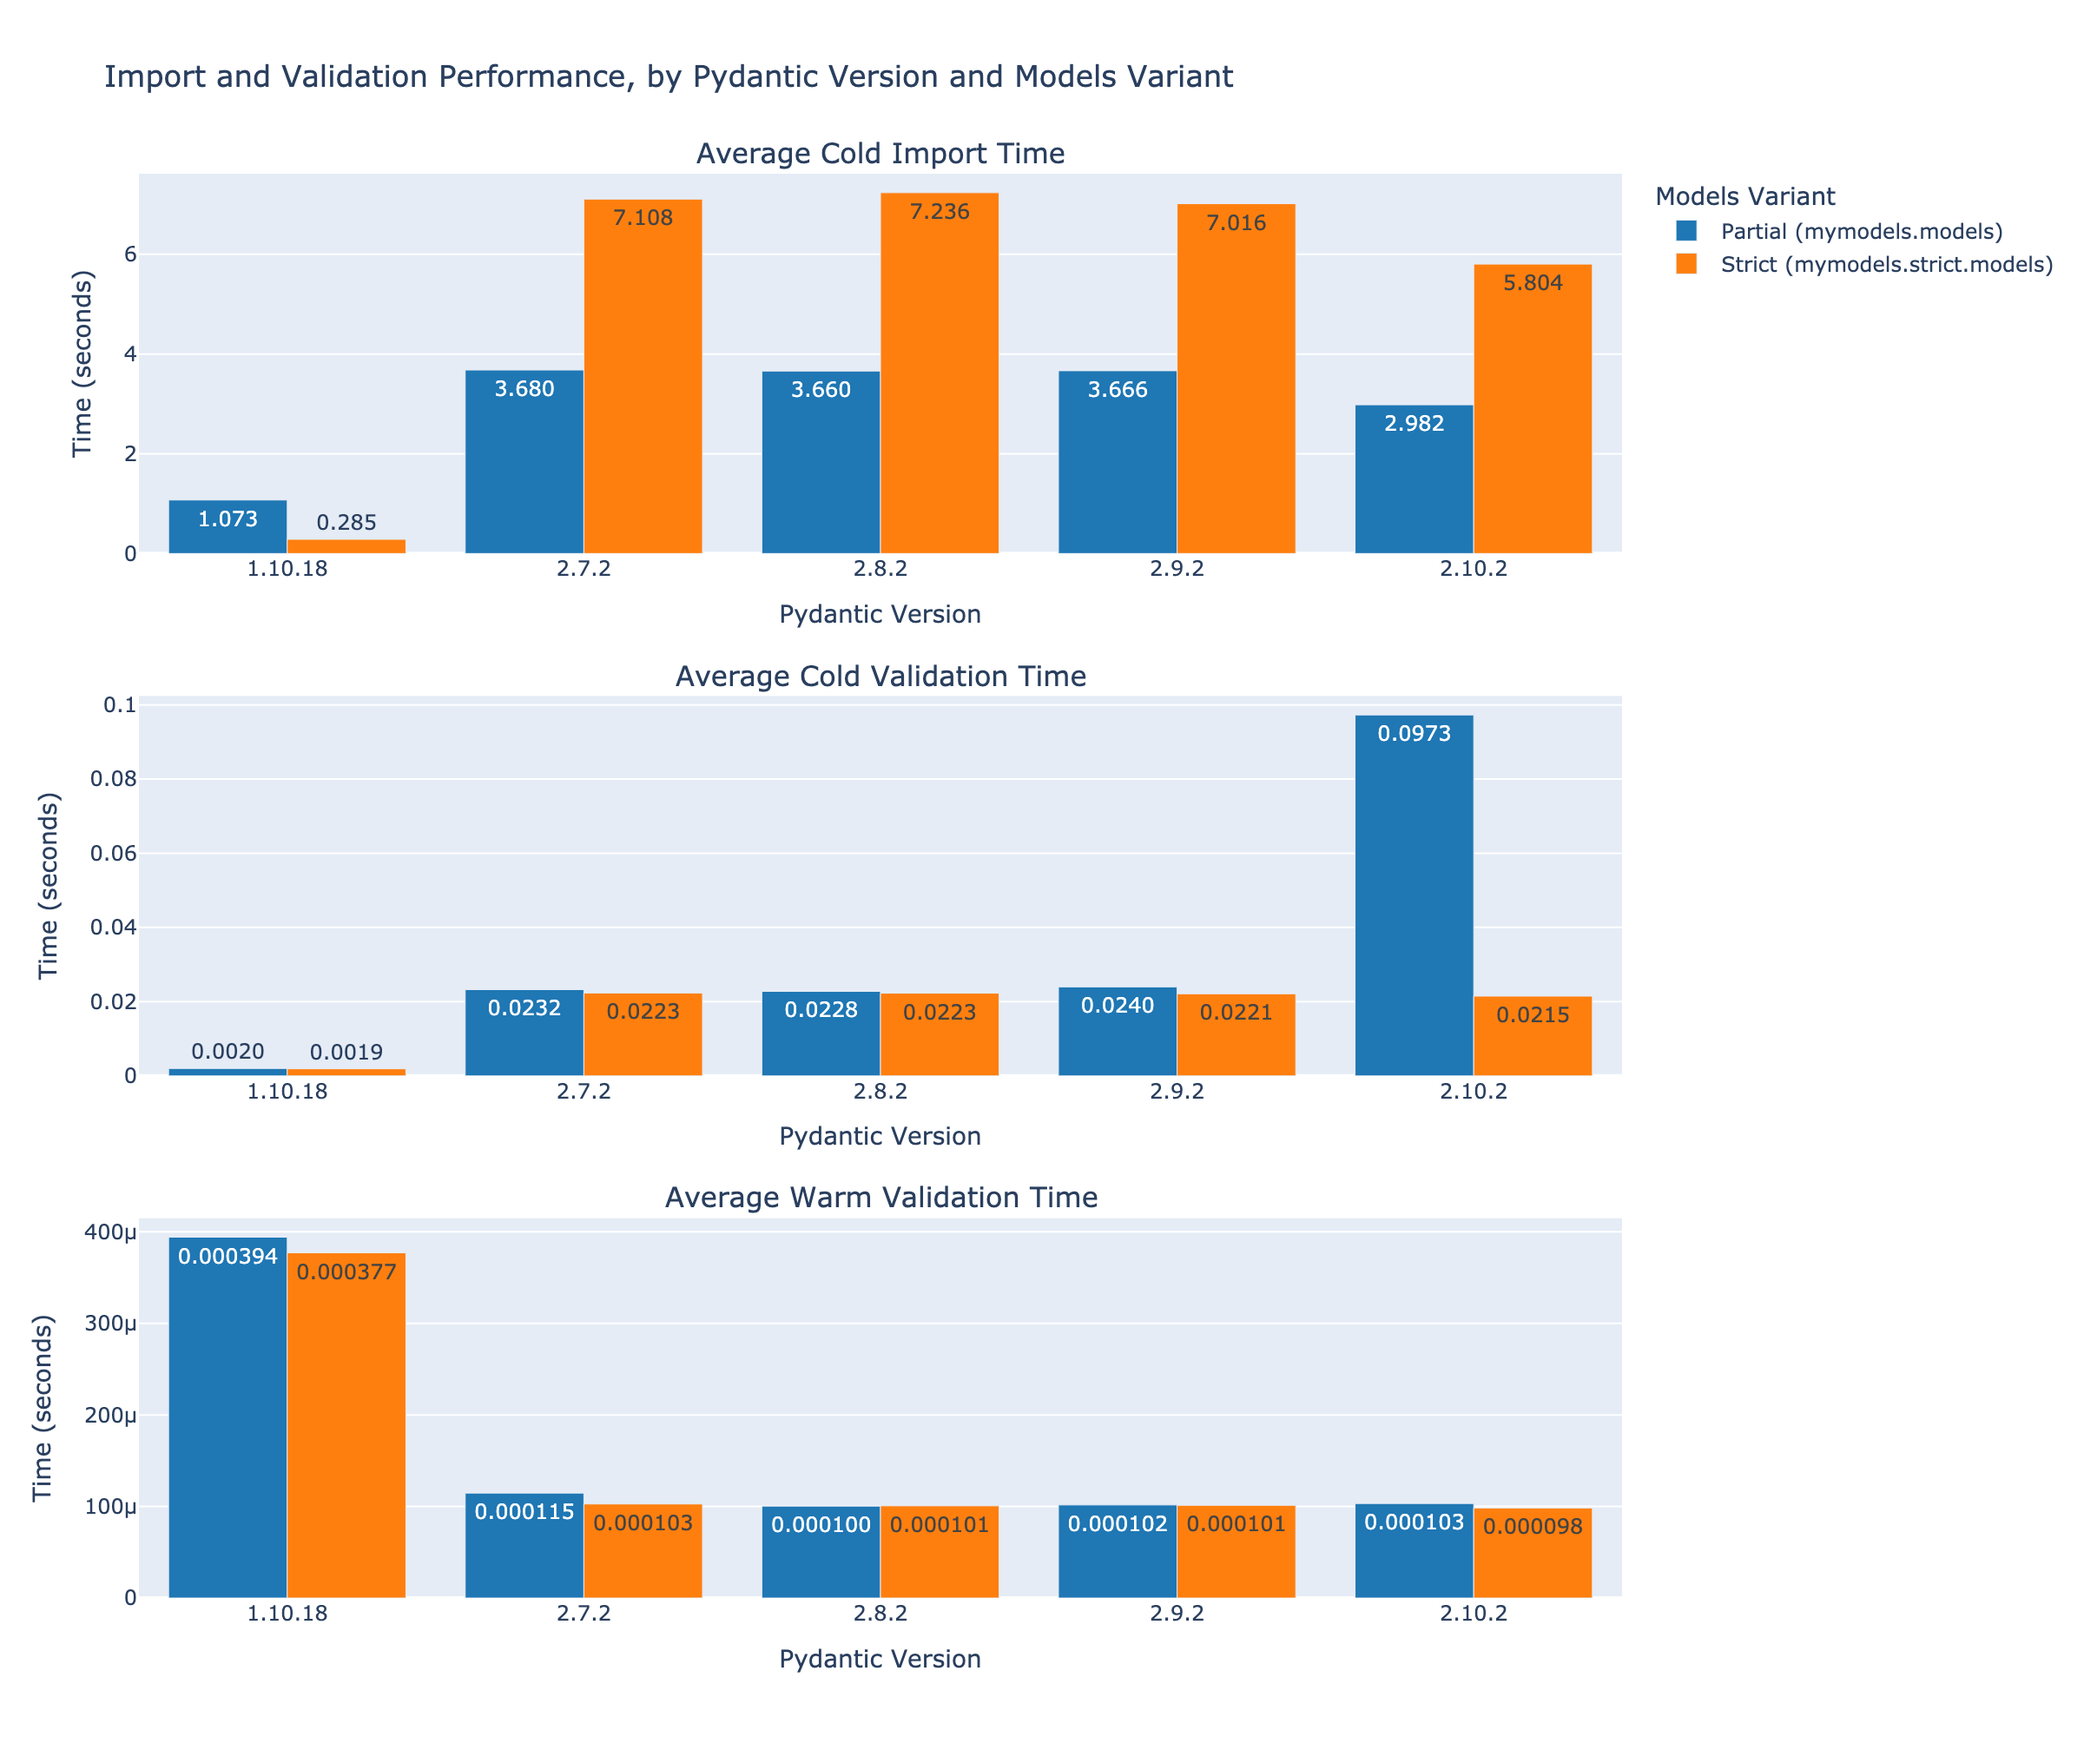
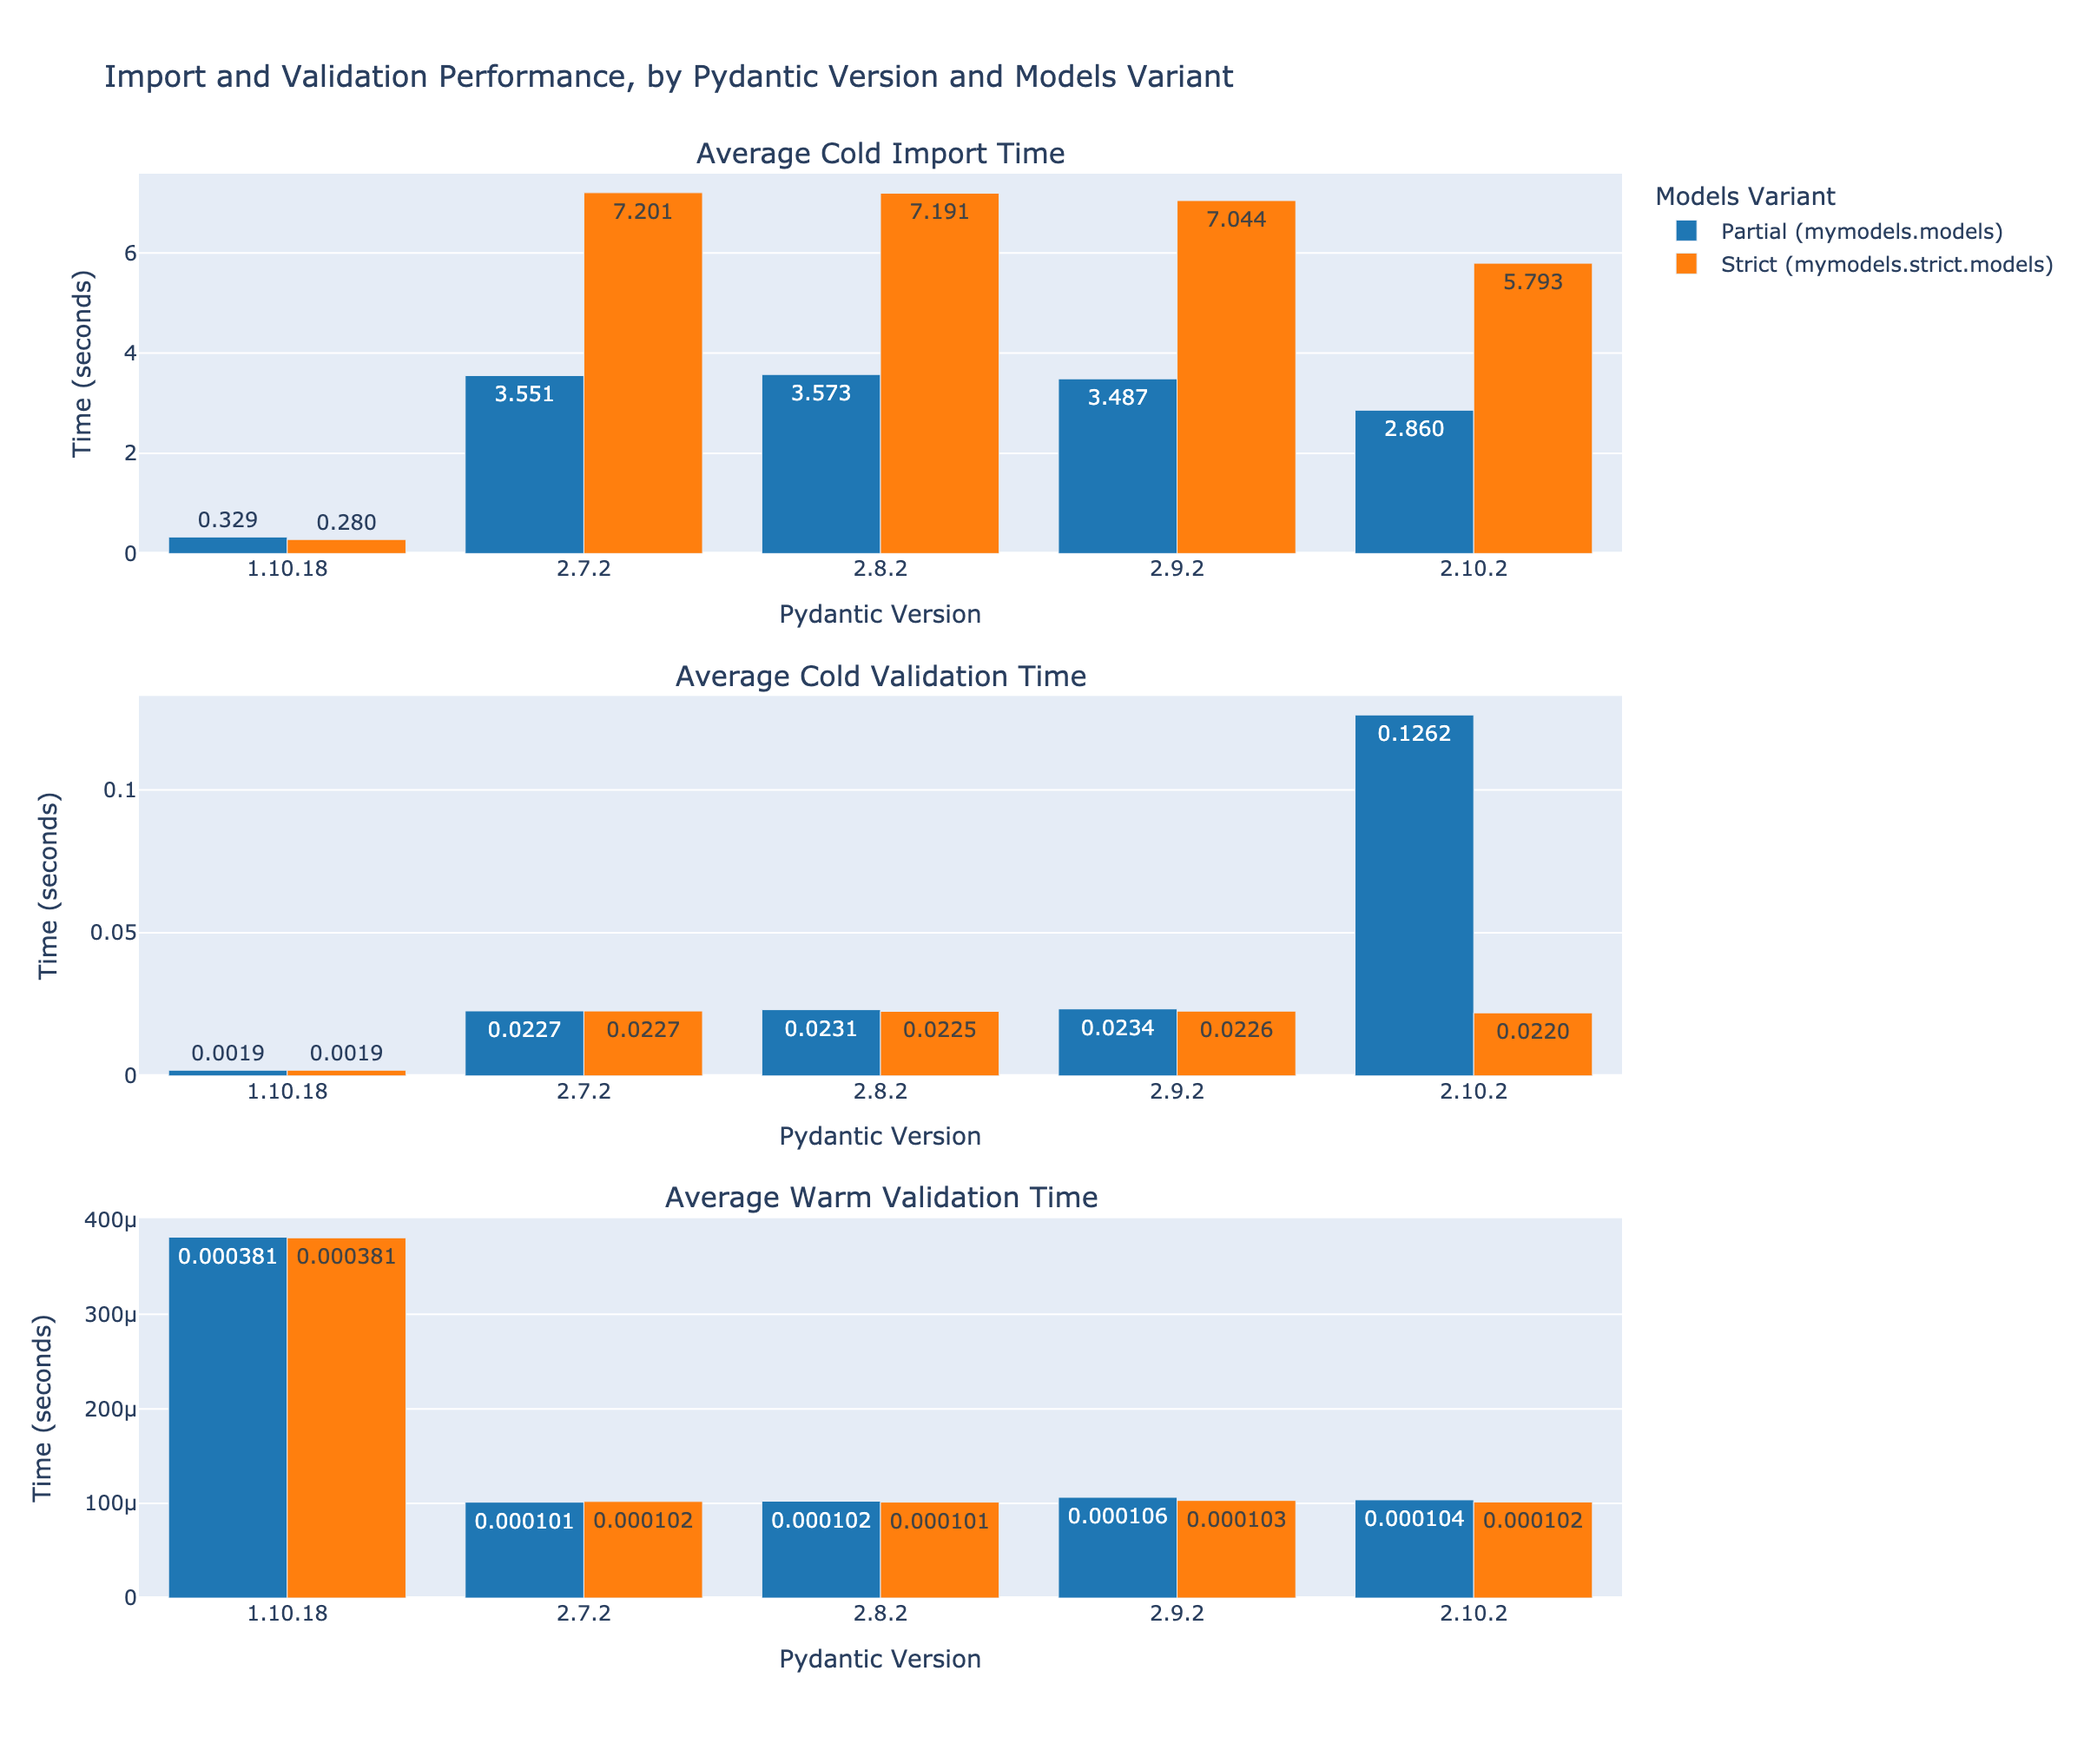
docs: write readme, including plot

diff --git a/noxfile.py b/noxfile.py
@@ -7,6 +7,8 @@ __DIR__ = Path(__file__).parent
 
 nox.options.sessions = ["test"]
 
+BENCHMARK_REPEAT = 20
+
 
 @nox.session(venv_backend="uv")
 @nox.parametrize("pydantic", ["1.10.18", "2.10.2"], ids=["pydantic-v1", "pydantic-v2"])
@@ -44,7 +46,7 @@ def benchmark(session: nox.Session, pydantic: str):
     )
     session.install(f"pydantic=={pydantic}")
 
-    repeat = 20
+    repeat = BENCHMARK_REPEAT
     for _ in range(repeat):
         session.run("python", "bench/run.py")
 

diff --git a/README.md b/README.md
@@ -1,4 +1,78 @@
-# Pydantic Startup Time Benchmarking Models
+# Pydantic v2 Slower Than v1 on Startup? A Benchmark
+
+This repo aims to serve as a helpful benckmark for the [Pydantic v2 significantly slower than v1](https://github.com/pydantic/pydantic/discussions/6748) issue.
+The `mymodels` package contains Pydantic models that are highly interrelated and elicit some of the
+performance concerns raised in the GitHub issue. The models and fields have been derived from a set of closed-source
+models, with classes and attributes renamed while the preserving structural integrity.
+
+
+## Benchmark
+
+The following results were produced with the following runtime context:
+* system: Darwin
+* machine: arm64
+* architecture: 64bit
+* python_impl: CPython
+* python_version: 3.10.15
+
+![Benchmark Results Plot](bench/results.png)
+
+### Benckmark Details
+
+For each benchmark run, the `bench/run.py` script is executed, which has 3 main steps:
+1. Import the models
+    - Partial or Strict, depending on which selected via `strict_models` CLI option
+2. Validates the data loaded from `tests/data/` directory
+    - This involves using a dynamic parsing type validator (i.e. `parse_obj_as` in v1 or `TypeAdapter` in v2)
+    - The parsing type is a list of Union type, where Union contains most of the model classes, discriminated via "modelType" field
+3. Validates the same data again
+    - This time the dynamic type validator / type adapter should be cached, and the operation much faster than first time around
+    
+The script records the following times (appending to `bench/results.csv` file):
+* **Cold Import Time** - The amount of it takes to import the models (step 1)
+* **Cold Validation Time** - The amount of time it takes to validate the models before dynamic type validator has been cached
+* **Warm Validation Time** - The amount of time it takes to validate the models after dynamic type validator has been cached
+
+
+### Run the Benchmark
+
+Run benchmark:
+
+```bash
+uv run nox -s benchmark
+```
+
+## Additional Details
+
+The `mymodels` package defines 4 variant sets of Pydantic models representing the same data model:
+1. `mymodels._pydantic_v1.models` - **Pydantic-v1**-compatible models with every field Optional (**Partial** model)
+2. `mymodels._pydantic_v1.strict.models` - **Pydantic-v1**-compatible models enforcing required fields (**Strict** model)
+1. `mymodels._pydantic_v2.models` - **Pydantic-v2**-compatible models with every field Optional (**Partial** model)
+2. `mymodels._pydantic_v2.strict.models` - **Pydantic-v2**-compatible models enforcing required fields (**Strict** model)
+
+For convenience, the package is setup to support pydantic-version-agnotic top-level imports where the appropriate models are
+imported transparently based on the installed Pydantic version:
+
+```python
+import mymodels.models
+import mymodels.strict.models
+```
+
+If `pydantic<2.0` is installed, the above would translate to:
+
+```python
+import mymodels._pydantic_v1.models
+import mymodels._pydantic_v1.strict.models
+```
+
+If `pydantic>=2.0` is installed, the above would translate to:
+
+```python
+import mymodels._pydantic_v2.models
+import mymodels._pydantic_v2.strict.models
+```
+
+## Run Tests
 
 Run tests to verify valid models:
 
@@ -6,9 +80,4 @@ Run tests to verify valid models:
 uv run nox -s test
 ```
 
-Run benchmark:
-
-```bash
-uv run nox -s benchmark
-```
 
